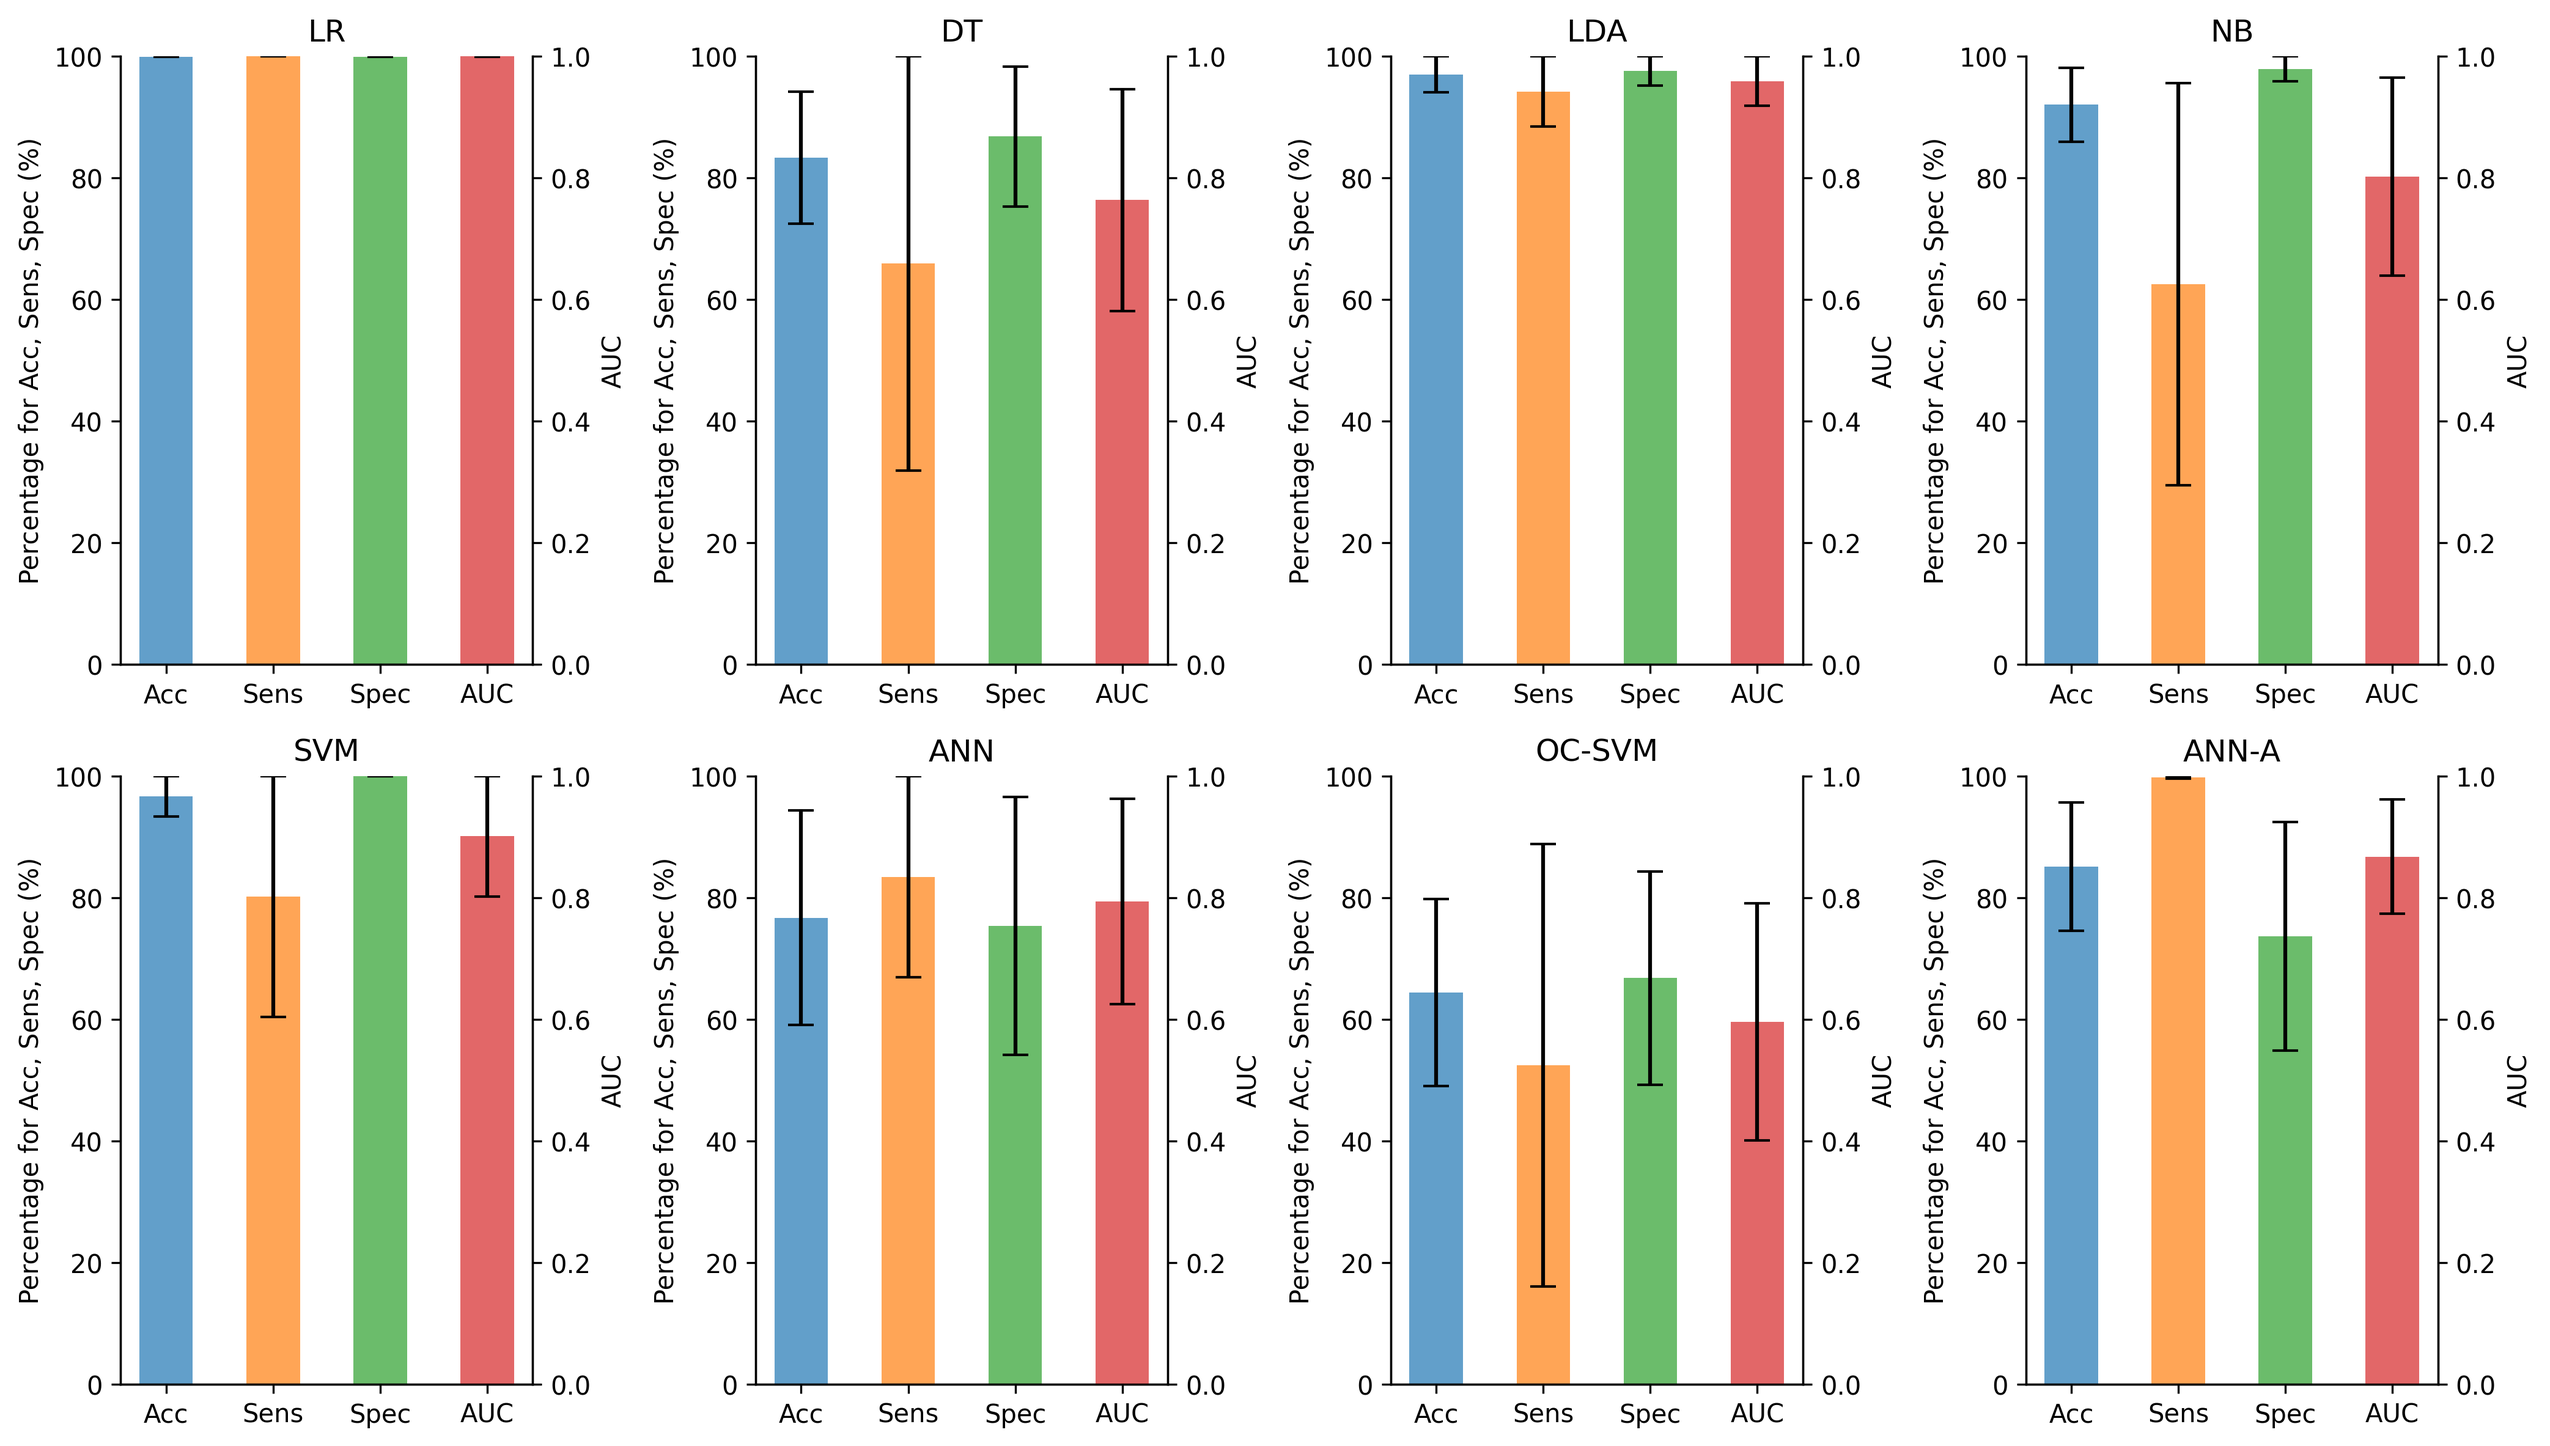
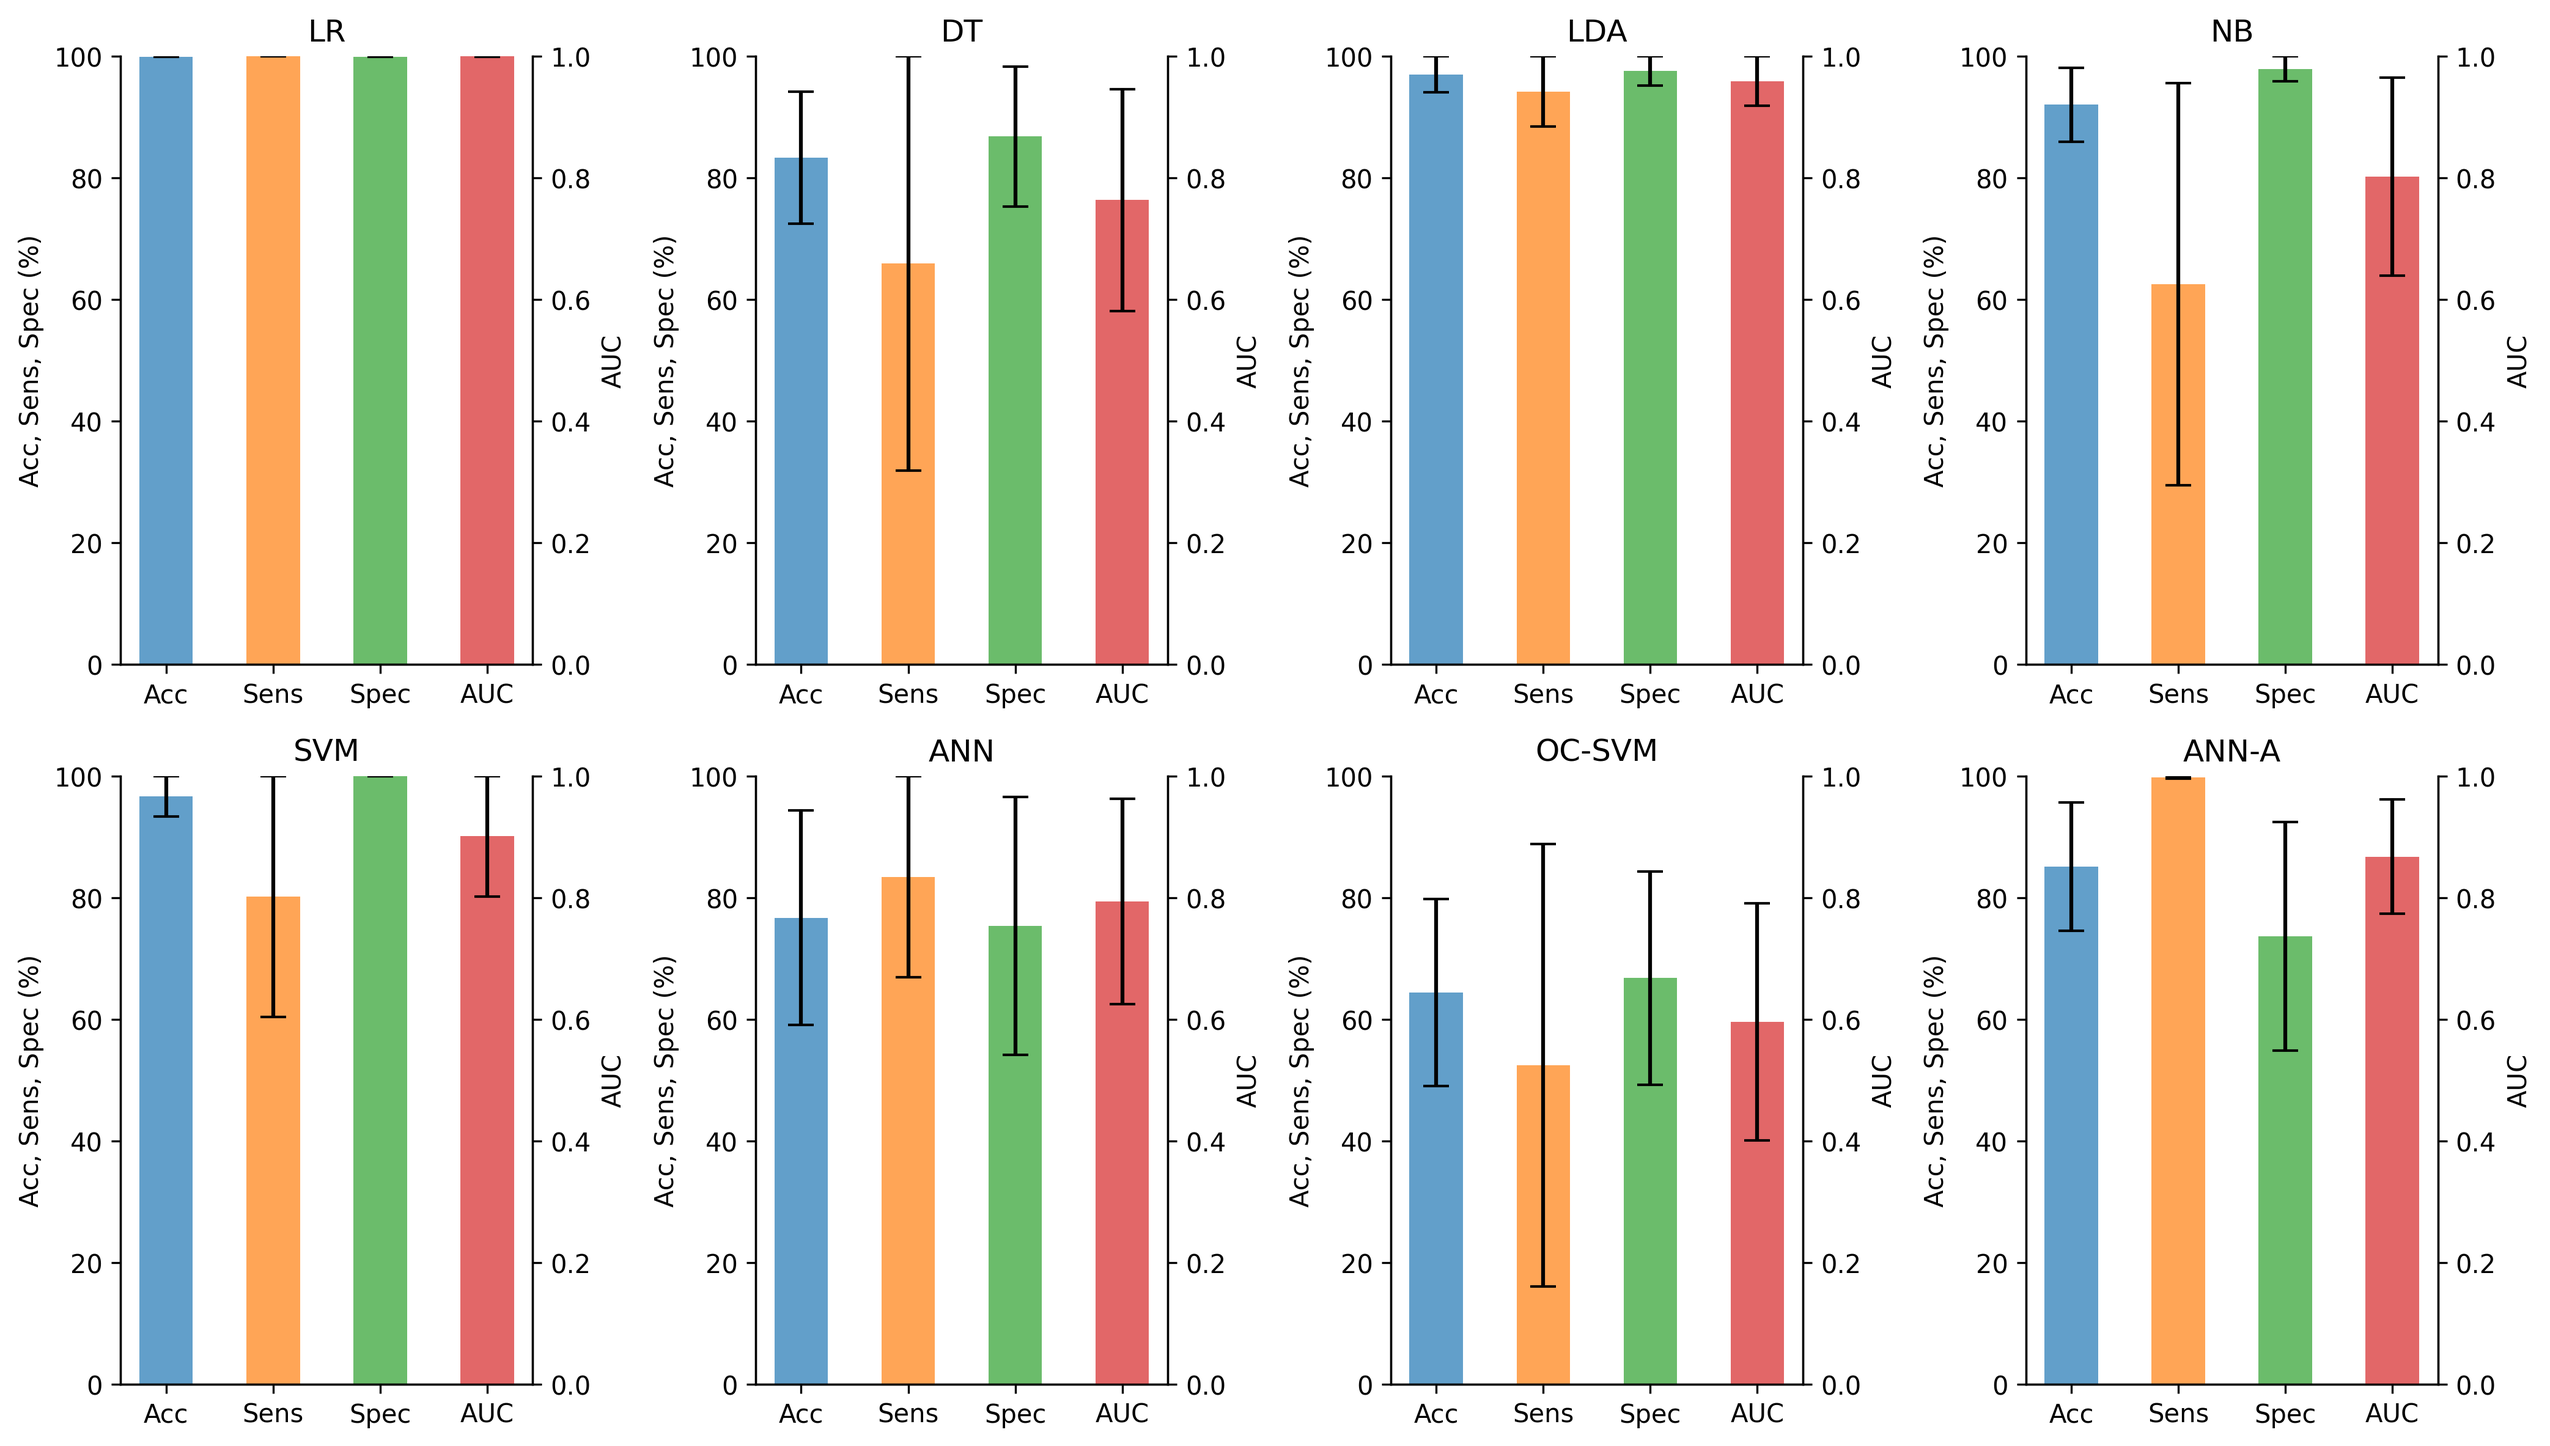
bar charts update

diff --git a/Fig3_results_bar_charts.py b/Fig3_results_bar_charts.py
@@ -43,7 +43,7 @@ def plot_barchart(ax, data, title):
     ax.errorbar(bar_positions[:3], [100 * mean for mean in mean_values[:3]],
                 yerr=[100 * std for std in capped_std_left], fmt='none', ecolor='black', capsize=5)
 
-    ax.set_ylabel("Percentage for Acc, Sens, Spec (%)")
+    ax.set_ylabel("Acc, Sens, Spec (%)")
     ax.set_ylim(0, left_ylim)
 
     # Plot AUC on right Y-axis
